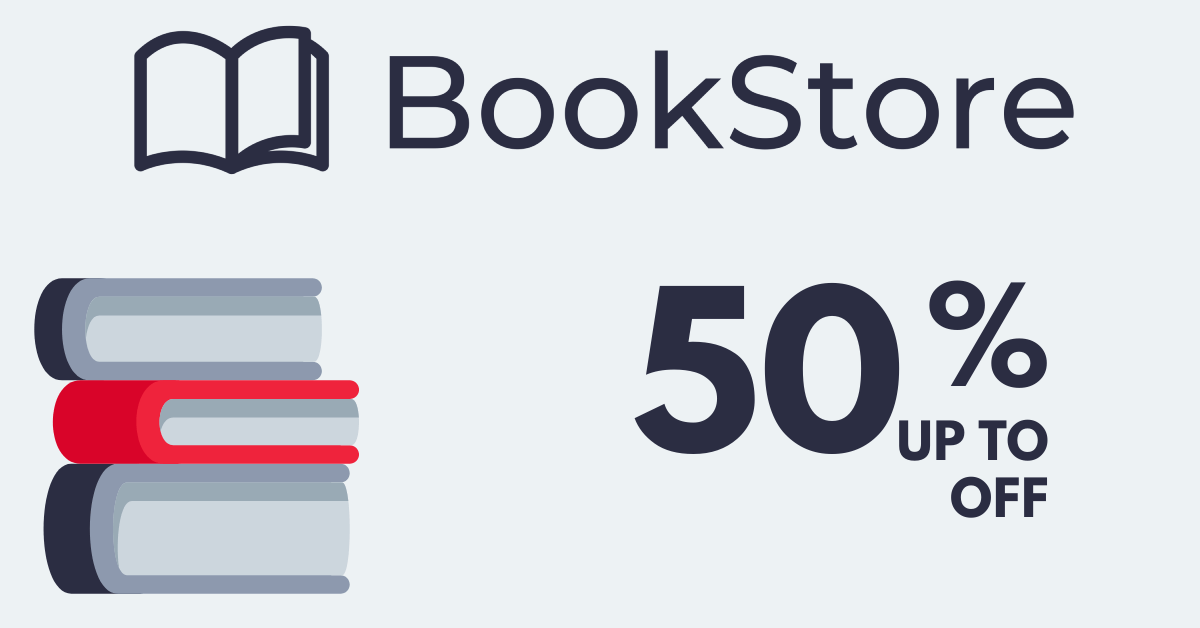
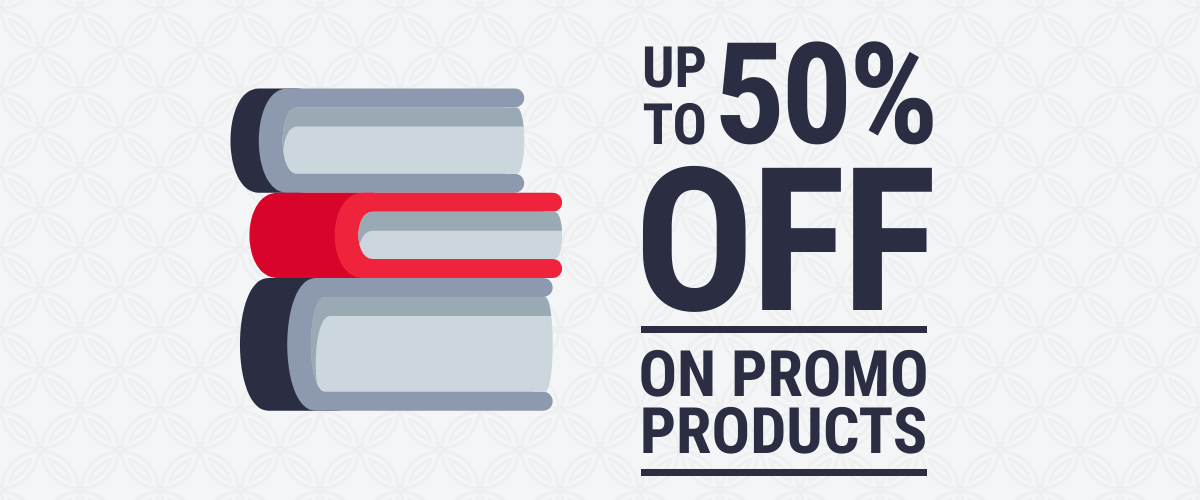
Main page completed

diff --git a/src/app/components/main-page/main-page.component.css b/src/app/components/main-page/main-page.component.css
@@ -11,8 +11,21 @@
 }
 
 .main__banner {
-  max-width: 100%;
   margin-bottom: 25px;
+  width: calc(100% + 50px);
+  position: relative;
+  left: -25px;
+  object-fit: cover;
+  min-height: 240px;
+}
+
+.main_subBanner {
+  margin: 15px 0;
+  width: calc(100% + 50px);
+  position: relative;
+  left: -25px;
+  object-fit: cover;
+  min-height: 120px;
 }
 
 .main__carouselTitle {
@@ -39,4 +52,20 @@
 
 .main__carousel {
   margin-bottom: 15px;
+}
+
+@media screen and (min-width: 660px) {
+  .main__banner {
+    width: 100%;
+    position: static;
+    object-fit: initial;
+    min-height: unset;
+  }
+
+  .main_subBanner {
+    width: 100%;
+    position: static;
+    object-fit: initial;
+    min-height: unset;
+  }
 }

diff --git a/src/app/components/main-page/main-page.component.html b/src/app/components/main-page/main-page.component.html
@@ -10,6 +10,7 @@
       Sales
     </p>
     <app-book-carousel *ngIf="sales.length" class="main__carousel" [books]="sales" size="lg"></app-book-carousel>
+    <img class="main_subBanner" alt="Reliable shopping, BookStore" src="assets/subbanner.png">
     <p class="main__carouselTitle main__carouselTitle--new">
       New
     </p>

diff --git a/src/app/components/footer/footer.component.css b/src/app/components/footer/footer.component.css
@@ -2,7 +2,7 @@
   width: 100%;
   background-color: #EDF2F4;
   box-shadow: 0 -10px 5px 0 rgba(70, 70, 70, 0.4);
-  z-index: 13;
+  z-index: 11;
   padding: 15px;
   display: flex;
   flex-direction: column;
